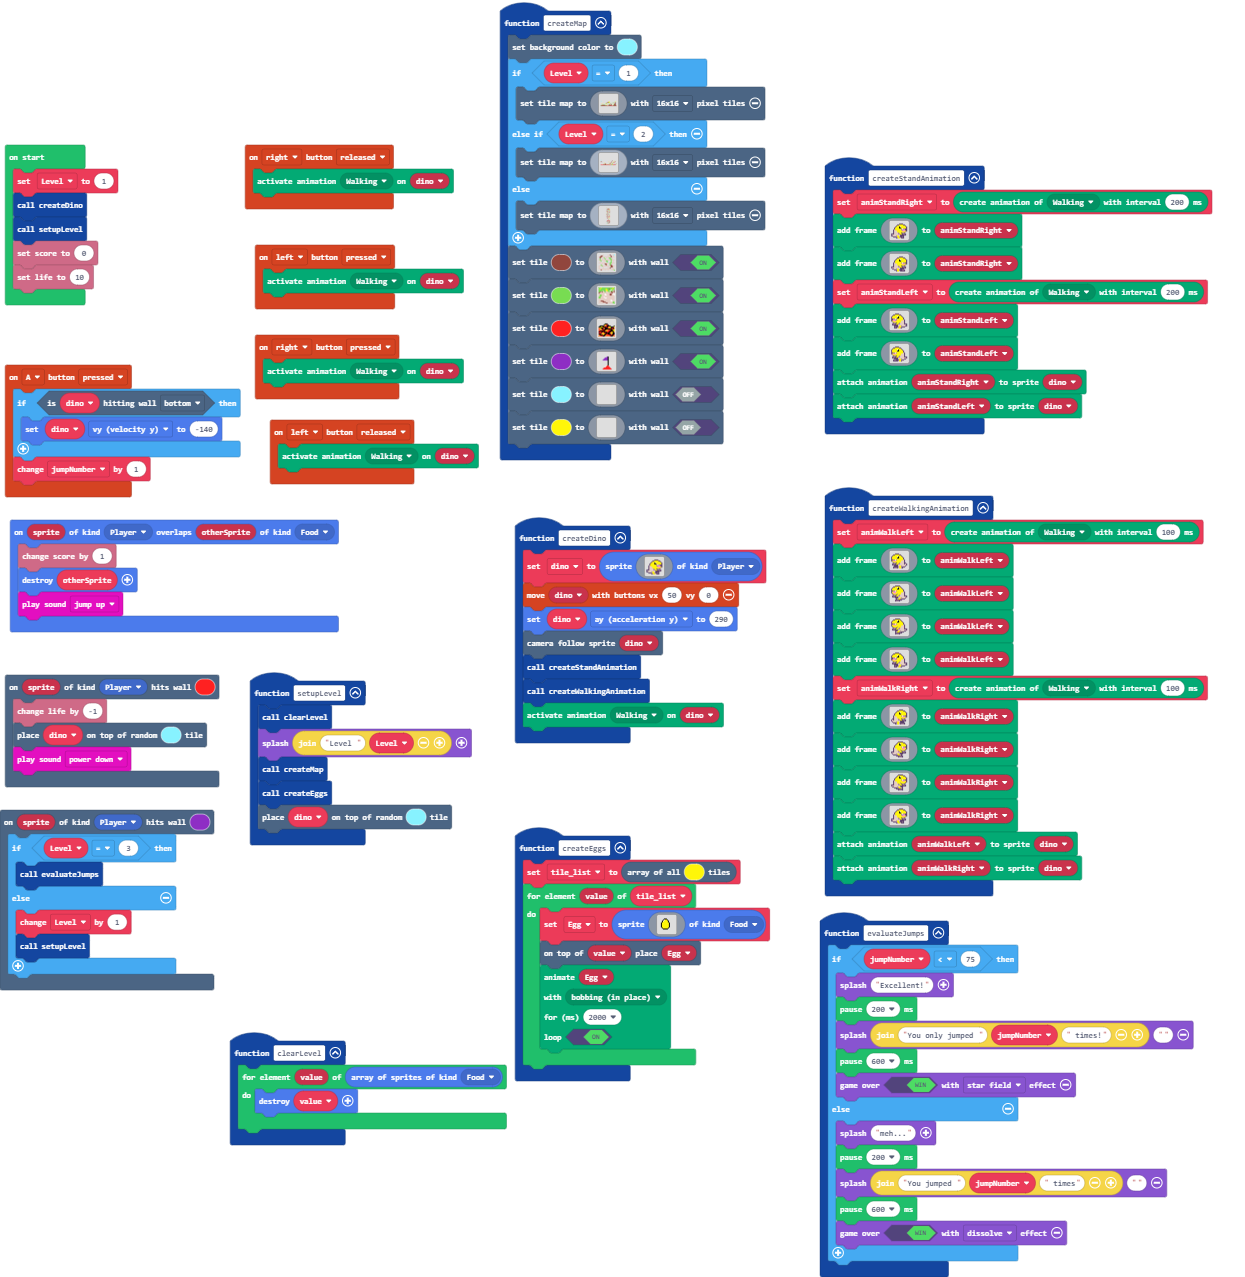
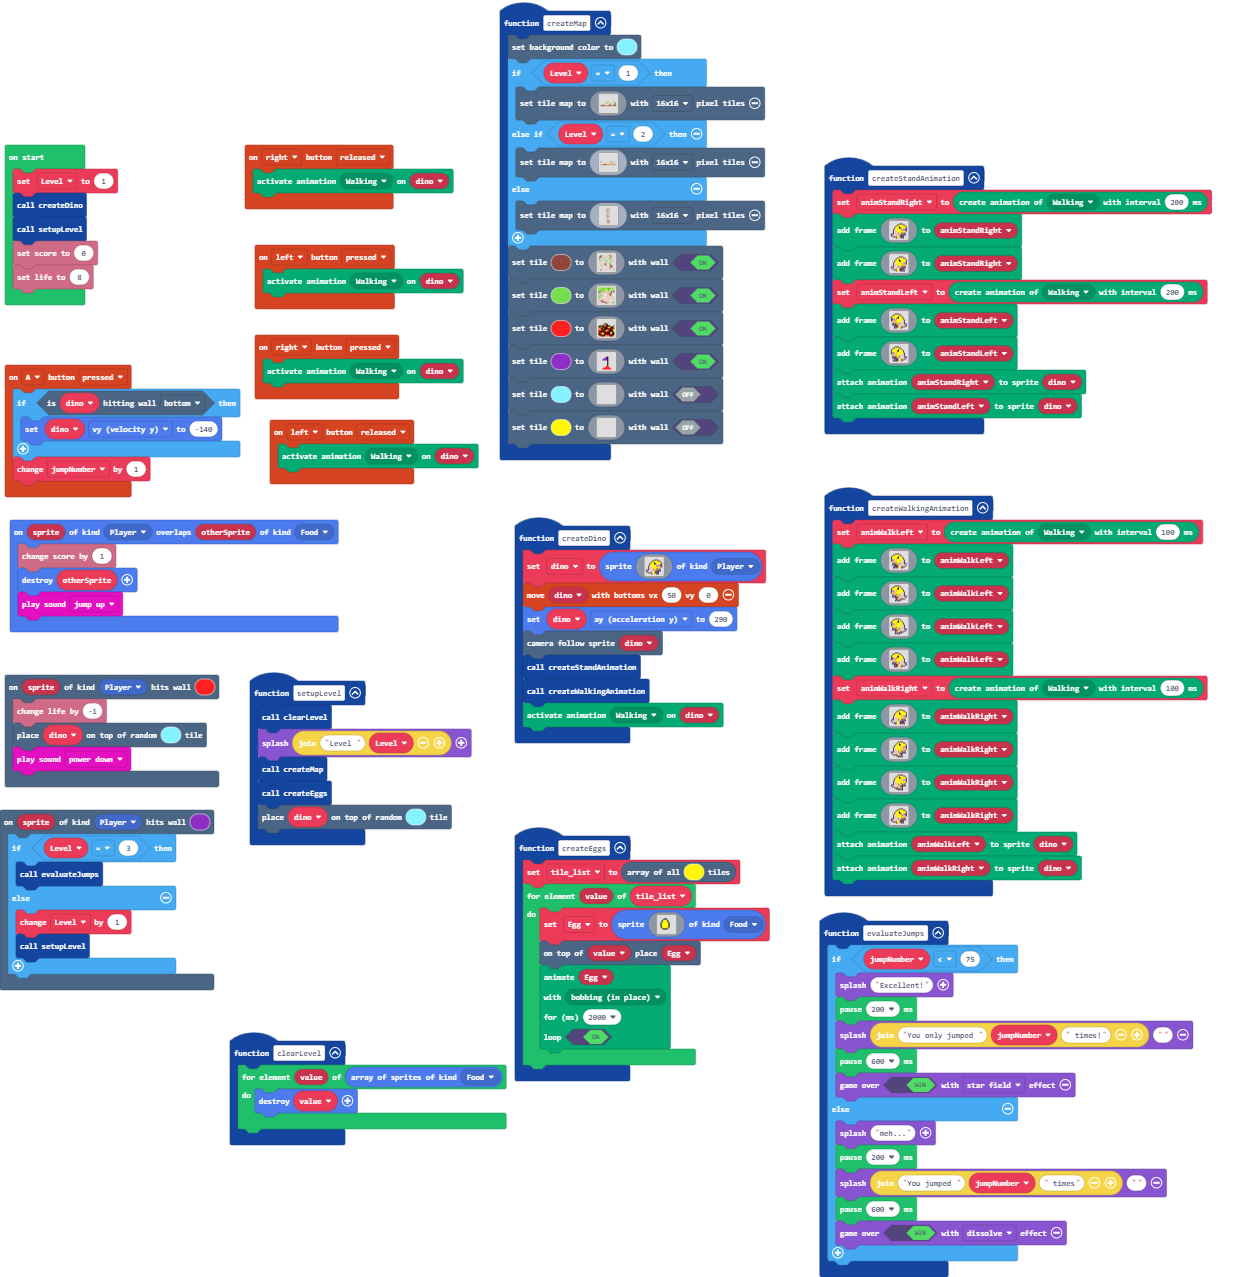
Update main.blocks, main.ts

Changed region(s): [[0.7936, 0.1527, 0.8241, 0.1832]]

diff --git a/main.ts b/main.ts
@@ -113,7 +113,7 @@ function createMap () {
             .......................e....5...
             ......................e.........
             eee.............5.....e..5..ee..
-            .....................e.....2....
+            .....................e.....7....
             ........5...........e.5..72.....
             ..................e2....2.......
             ......5.727......7.7..77.......7
@@ -556,4 +556,4 @@ Level = 1
 createDino()
 setupLevel()
 info.setScore(0)
-info.setLife(10)
+info.setLife(8)
